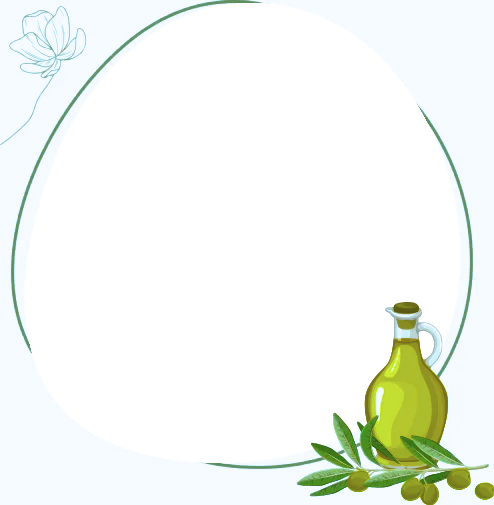
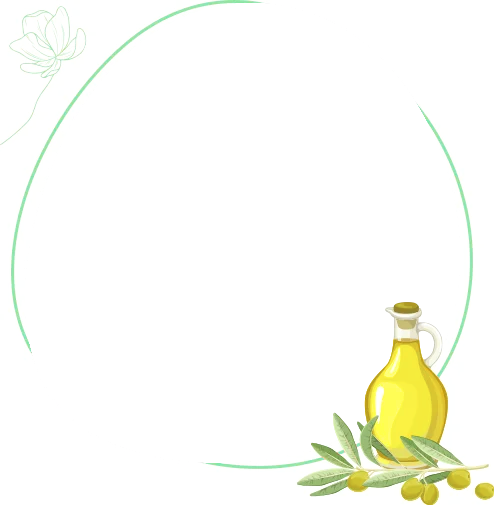
Changes done

diff --git a/service.html b/service.html
@@ -359,7 +359,7 @@
             <div class="col" data-aos="fade-up" data-aos-delay="200">
                 <!-- Single Package Start -->
                 <div class="single-package">
-                    <img class="shape-1  movebounce-02" src="assets/images/shape/shape-19.webp" alt="Shape">
+                    <img class="shape-1  movebounce-02" src="assets/images/shape/shape-19.png" alt="Shape">
                     
                     <div class="package-header text-center">
                         <h3 class="title">Facecare</h3>
@@ -385,7 +385,7 @@
             <div class="col active" data-aos="fade-up" data-aos-delay="400">
                  <!-- Single Package Start -->
                  <div class="single-package">
-                    <img class="shape-1  movebounce-02" src="assets/images/shape/shape-19.webp" alt="Shape">
+                    <img class="shape-1  movebounce-02" src="assets/images/shape/shape-19.png" alt="Shape">
                     
                     <div class="package-header text-center">
                         <h3 class="title">Skincare</h3>
@@ -420,7 +420,7 @@
             <div class="col" data-aos="fade-up" data-aos-delay="600">
                 <!-- Single Package Start -->
                 <div class="single-package">
-                    <img class="shape-1  movebounce-02" src="assets/images/shape/shape-19.webp" alt="Shape">
+                    <img class="shape-1  movebounce-02" src="assets/images/shape/shape-19.png" alt="Shape">
                     
                     <div class="package-header text-center">
                         <h3 class="title">Healthcare</h3>
@@ -449,7 +449,7 @@
             <div class="col" data-aos="fade-up" data-aos-delay="200">
                 <!-- Single Package Start -->
                 <div class="single-package">
-                    <img class="shape-1  movebounce-02" src="assets/images/shape/shape-19.webp" alt="Shape">
+                    <img class="shape-1  movebounce-02" src="assets/images/shape/shape-19.png" alt="Shape">
                     
                     <div class="package-header text-center">
                         <h3 class="title">Haircare</h3>
@@ -476,7 +476,7 @@
             <div class="col" data-aos="fade-up" data-aos-delay="400">
                 <!-- Single Package Start -->
                 <div class="single-package">
-                    <img class="shape-1  movebounce-02" src="assets/images/shape/shape-19.webp" alt="Shape">
+                    <img class="shape-1  movebounce-02" src="assets/images/shape/shape-19.png" alt="Shape">
                     
                     <div class="package-header text-center">
                         <h3 class="title">Babycare</h3>
@@ -502,7 +502,7 @@
             <div class="col" data-aos="fade-up" data-aos-delay="600">
                 <!-- Single Package Start -->
                 <div class="single-package">
-                    <img class="shape-1  movebounce-02" src="assets/images/shape/shape-19.webp" alt="Shape">
+                    <img class="shape-1  movebounce-02" src="assets/images/shape/shape-19.png" alt="Shape">
                     
                     <div class="package-header text-center">
                         <h3 class="title">Animalcare</h3>

diff --git a/assets/css/style.css b/assets/css/style.css
@@ -2805,7 +2805,7 @@ select {
   left: -2px;
   width: 101%;
   height: 101%;
-  background-image: url(../images/about-shape.webp);
+  background-image: url(../images/about-shape-1.png);
   background-position: center center;
   background-repeat: no-repeat;
   background-size: cover;
@@ -4311,7 +4311,7 @@ select {
 .single-package {
   border: 1px solid #96D9B1;
   border-radius: 30px;
-  background-color: rgb(255, 249, 245);
+  background-color: rgb(241, 255, 235); 
   padding: 60px 40px;
   margin-top: 30px;
   position: relative;
@@ -4763,7 +4763,7 @@ select {
 .single-product {
   border: 1px solid #96D9B1;
   border-radius: 17px;
-  background-color: rgb(255, 249, 245);
+  background-color: rgb(241, 255, 235);
   padding: 30px;
   text-align: center;
   margin-top: 30px;
@@ -4879,7 +4879,7 @@ select {
 .product-details-image {
   border: 1px solid #96D9B1;
   border-radius: 17px;
-  background-color: rgb(255, 249, 245);
+  background-color: rgb(241, 255, 235);
   padding: 30px;
   text-align: center;
   margin-top: 30px;
@@ -5114,7 +5114,7 @@ select {
 
 .meta-action .action {
   border-radius: 50%;
-  background-color: rgb(255, 249, 245);
+  background-color: rgb(241, 255, 235);
   width: 40px;
   height: 40px;
   font-size: 20px;
@@ -5729,7 +5729,7 @@ select {
 .single-info .social li a {
   border: 1px solid #96D9B1;
   border-radius: 50%;
-  background-color: rgb(255, 249, 245);
+  background-color: rgb(241, 255, 235);
   width: 30px;
   height: 30px;
   line-height: 28px;
@@ -5803,7 +5803,7 @@ select {
   left: 0;
   width: 100%;
   height: 100%;
-  background-image: url(../images/contact-shape.png);
+  background-image: url(../images/contact-shape-1.png);
   background-position: center center;
   background-repeat: no-repeat;
   background-size: cover;
@@ -7028,7 +7028,7 @@ select {
 .single-post .post-thumb a {
   border: 1px solid #96D9B1;
   border-radius: 14px;
-  background-color: rgb(255, 249, 245);
+  background-color: rgb(241, 255, 235);
   padding: 10px;
 }
 @media only screen and (min-width: 992px) and (max-width: 1199px) {

diff --git a/index.html b/index.html
@@ -183,7 +183,7 @@
         <video src="assets/images/slider/header-video2.mp4" autoplay loop playsinline muted class="header-video"></video>
         <div class="container">
             <div class="slider-content">
-                <h1 class="title">OPROMA <br>SkinCare, Haircare & Healthcare<br>  Product Manufacturer </h1>
+                <h1 class="title">OPROMA <br>Skincare, Haircare & Healthcare<br>  Product Manufacturer </h1>
              <ul class="slider-meta">
                     <li><a href="#" class="btn btn-light btn-hover-primary">Call Us</a></li>
                     <li><a href="https://www.youtube.com/watch?v=XlkLAcUbBlE" class="video-play glightbox"><span class="icon"><i class="fas fa-play"></i></span> Watch Video</a></li>
